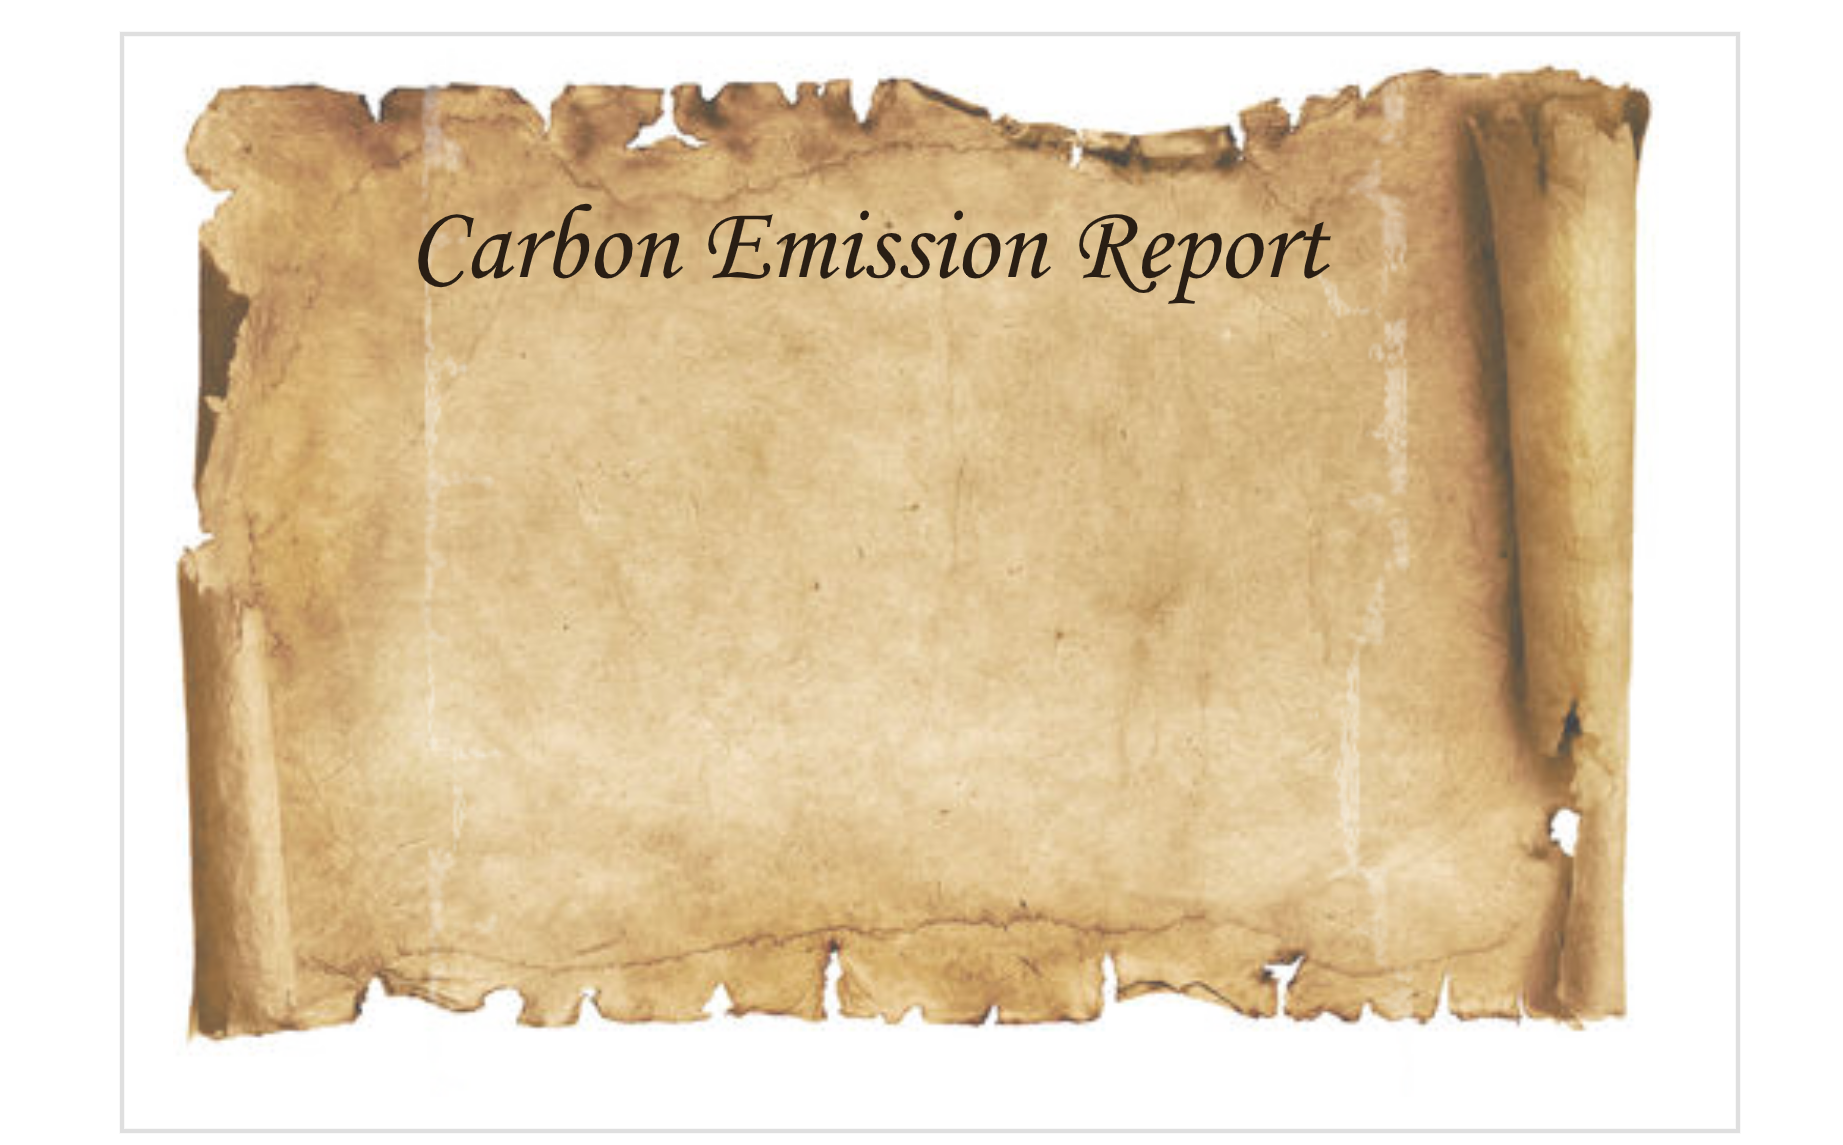
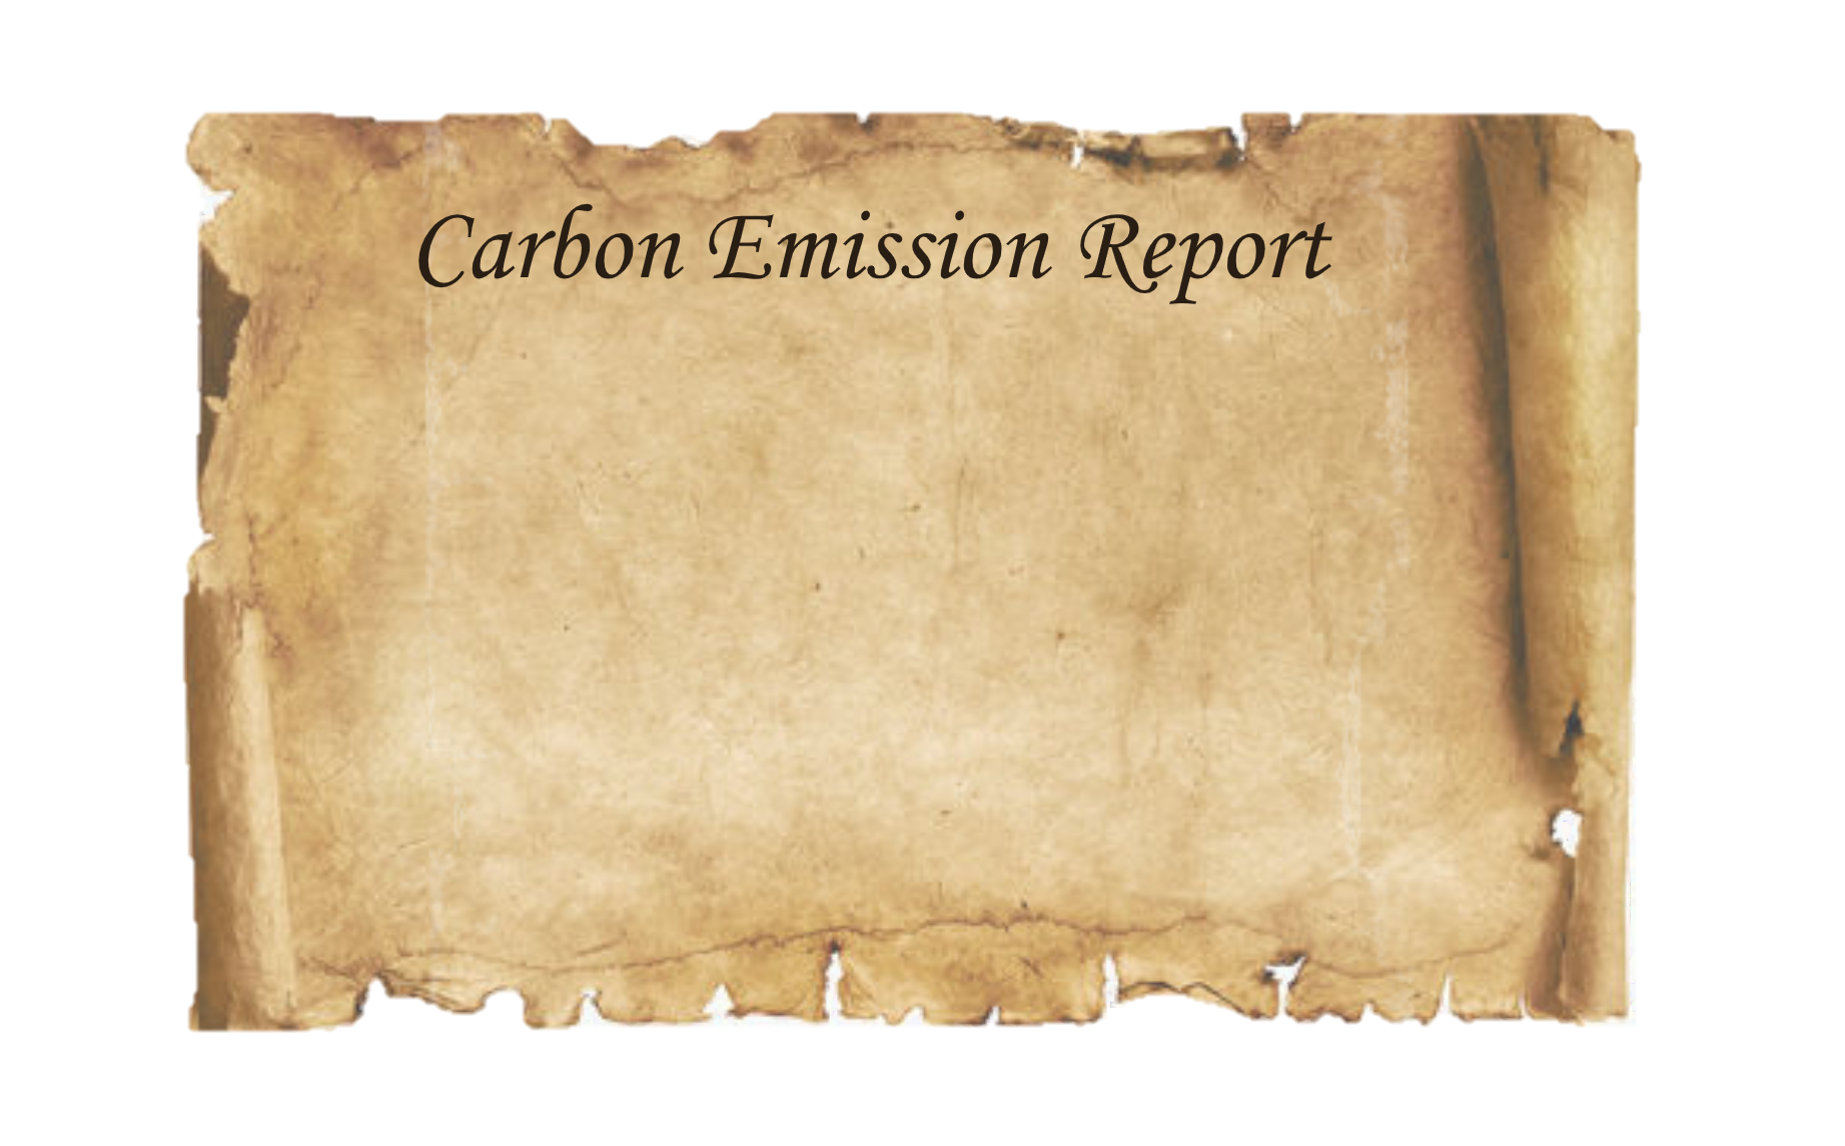
update final evaluation

diff --git a/js/script.js b/js/script.js
@@ -155,3 +155,9 @@ function select_cloth(e) {
     }
 }
 
+function show_activity() {
+    $("#main-wrap").append("<div class='ab-class' id='final-evalu'></div>");
+    $("#final-evalu").html("<img src='./../img/mix/report.png'></img>");
+    $("#column-left").hide();
+    $("#column-right").hide();
+}

diff --git a/js/draw-function.js b/js/draw-function.js
@@ -209,7 +209,8 @@ function begin_right() {
     }
 
     $("#column-right").append("<div class='done' id='btn-done'></div>");
-    
+    $("#btn-done").click(show_activity);
+
     update_square_img(0); // 0->type
     $(".square").click(select_cloth);
 }

diff --git a/sytle/style.css b/sytle/style.css
@@ -94,3 +94,13 @@ html {
     background-size:100% 100%;
     background-repeat:no-repead;
 }
+
+#final-evalu {
+    z-index: 101;
+    top: 10px;
+    left: 30px;
+}
+
+#final-evalu img {
+    width: 1024px;
+}
